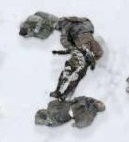
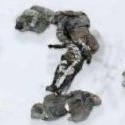
Unified size of template images

diff --git a/main.py b/main.py
@@ -1,13 +1,6 @@
 import cv2
 import numpy
 
-
-def ClusterNumbers(positions, numbers):
-    result = []
-
-    return result
-
-
 def PreProcessImage(plain_image):
     return cv2.cvtColor(plain_image, cv2.COLOR_BGR2GRAY)
 
@@ -18,14 +11,12 @@ def GenerateNumbersTemplates():
     numbers_path = "images/numbers/"
     template_extension = ".jpg"
 
-    numbers_array = numpy.array(object)
     for n in "1234":
         template_path = numbers_path + n + template_extension
         number_image = cv2.imread(template_path)
         numbers[n] = number_image
-        numbers_array += number_image
 
-    images_together = numpy.concatenate(numbers_array, axis=1)
+    images_together = numpy.concatenate((numbers["1"], numbers["2"], numbers["3"], numbers["4"]), axis=1)
     cv2.imshow(template_path, images_together)
     cv2.waitKey()
 
@@ -39,7 +30,6 @@ def ReadNumbersFromImage(target, numbers_images):
     for pattern in numbers_images:
         coordinates = []
 
-    result = ClusterNumbers(positions, numbers_images)
     return result
 
 
